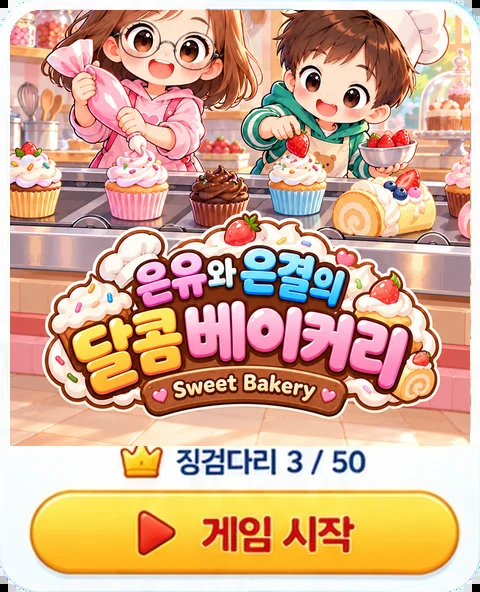
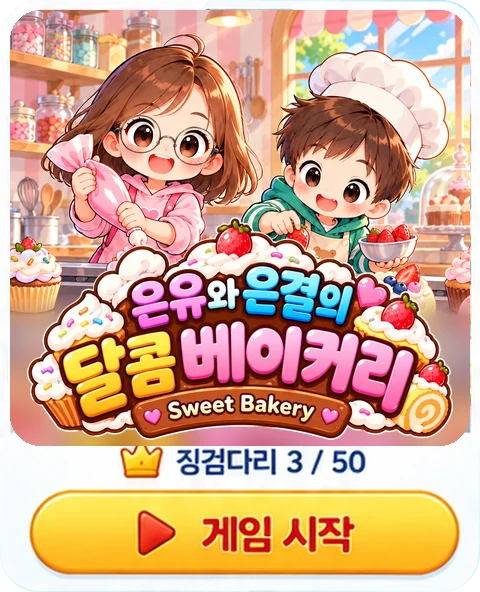
게임 선택 카드(메모리·두더지·베이커리): 은유·은결 머리가 잘리지 않게 다시 자르고 같은 크기 로고를 아래에 얹음 (tools/game_cards.py)

diff --git a/hub/hub.js b/hub/hub.js
@@ -191,7 +191,7 @@ function renderLobby() {
     card.className = 'lb-card' + (fav ? ' fav' : ''); card.setAttribute('role', 'button'); card.tabIndex = 0;
     // 카드 그림 한 장(제목·게임 시작 버튼 포함) 위에 최고 기록만 실제 값으로 덮어 씀
     const bp = BEST_POS[g.id] || [73.5, 81.5];
-    card.innerHTML = `<img class="lb-cardimg" src="${g.thumb}?v=202610252249" alt="">
+    card.innerHTML = `<img class="lb-cardimg" src="${g.thumb}?v=202610261000" alt="">
       <button class="lb-fav" aria-label="즐겨찾기">★</button>
       <div class="lb-best" style="top:${bp[0]}%;height:${bp[1] - bp[0]}%"><img src="hub/ui/crown.webp?v=202610252249" alt=""><span class="lb-bt"></span></div>`;
     card.querySelector('.lb-cardimg').alt = g.name;
@@ -373,7 +373,7 @@ function renderRecords() {
   const c = Hub.active();
   $('recTitle').textContent = `${c.name}의 기록`;
   $('recSummary').innerHTML = `<div class="rec-card total"><div class="v">지금 코인 <b>${c.coins}</b> · 지금까지 모은 코인 <b>${c.earned}</b> · 별 <b>${Hub.starsTotal(c)}</b></div></div>`
-    + GAME_CARDS.map((g) => `<div class="rec-card"><div class="thumb" style="background-image:url(${g.thumb}?v=202610252249)"></div>
+    + GAME_CARDS.map((g) => `<div class="rec-card"><div class="thumb" style="background-image:url(${g.thumb}?v=202610261000)"></div>
       <div><div class="t">${g.name}${Hub.isFav(g.id, c) ? ' <span class="star-on">★</span>' : ''}</div><div class="v">${g.rec(c, Hub.rec(g.id, c))}</div></div></div>`).join('');
   const list = $('recList'); list.innerHTML = '';
   if (!c.history.length) list.innerHTML = '<li><span>아직 기록이 없어요. 게임을 해봐요!</span></li>';

diff --git a/index.html b/index.html
@@ -179,6 +179,6 @@
 <script src="common/profile.js?v=202610252249"></script>
 <script src="common/charv2.js?v=202610252249"></script>
 <script src="common/ui.js?v=202610252249"></script>
-<script src="hub/hub.js?v=202610252249"></script>
+<script src="hub/hub.js?v=202610261000"></script>
 </body>
 </html>

diff --git a/tools/game_cards.py b/tools/game_cards.py
@@ -1,0 +1,52 @@
+"""게임 선택 카드 다시 만들기 (메모리·두더지·베이커리): GPT G01 원본 → hub/cards/<id>.webp
+사천성 카드 틀(테두리·BEST 줄·게임 시작 버튼)은 그대로 두고 그림 칸(x10~470, y10~446)에 G01을 끼움.
+로고 크기는 그대로(G01 폭을 칸 폭 460에 맞춤), 자르는 위치(top)만 정해서 은유·은결 머리가 잘리지 않게.
+G01에서 머리끝~로고 끝이 칸보다 길면(메모리·베이커리), 캐릭터가 다 보이게 위에서 자르고
+같은 디자인의 로고(G04, 배경 지운 <게임>/assets/ui/logo.webp)를 예전 카드와 같은 크기로 칸 아래쪽에 얹음.
+  python3 tools/game_cards.py
+"""
+import os
+from PIL import Image, ImageDraw, ImageFilter
+
+ROOT = os.path.dirname(os.path.dirname(os.path.abspath(__file__)))
+W, H = 460, 436  # 그림 칸
+# 게임: (G01 원본, G01에서 자를 위쪽 y, 얹을 로고 폭 px 또는 None) — 예전엔 위쪽을 215쯤 잘라 머리가 잘렸음
+CARDS = {
+    'memory': ('memorygame/image/1E7A6A2B-6B5F-409E-BE4B-54D47DD64E6B.PNG', 0, 380, 436),
+    'mole': ('molegame/GPT/G01.PNG', 15, 400, 433),
+    'bakery': ('bakerygame/GPT/G01.PNG', 20, 426, 430),
+}
+# 마지막 숫자: 얹는 로고의 아래 끝 (그림 칸 안 y, 436 = BEST 줄 바로 위) — G01 원래 로고가 비치지 않게 그 위를 덮음
+
+
+def rounded(im, r):
+    m = Image.new('L', im.size, 0)
+    ImageDraw.Draw(m).rounded_rectangle((0, 0, im.width - 1, im.height - 1), r, fill=255)
+    im = im.convert('RGBA'); im.putalpha(m); return im
+
+
+def build(gid, src, top, logo_w, logo_bottom):
+    g1 = Image.open(os.path.join(ROOT, src)).convert('RGB')
+    s = W / g1.width; h = round(H / s)
+    top = max(0, min(top, g1.height - h))
+    pic = g1.crop((0, top, g1.width, top + h)).resize((W, H), Image.LANCZOS).convert('RGBA')
+    if logo_w:
+        lg = Image.open(f'{ROOT}/{gid}/assets/ui/logo.webp').convert('RGBA')
+        lg = lg.crop(lg.getbbox()); lg = lg.resize((logo_w, round(lg.height * logo_w / lg.width)), Image.LANCZOS)
+        y0 = logo_bottom - lg.height
+        # 로고 아래쪽 뒤로 G01 원래 로고 글자가 비치지 않게, 그 부분을 크게 흐린 배경으로 덮고(부드럽게 이어지게) 로고를 얹음
+        cut = y0 + round(lg.height * 0.45)
+        blur = pic.filter(ImageFilter.GaussianBlur(14))
+        m = Image.new('L', pic.size, 0); d = ImageDraw.Draw(m)
+        for y in range(cut - 24, H):
+            d.line((0, y, W, y), fill=max(0, min(255, round(255 * (y - (cut - 24)) / 24))))
+        pic = Image.composite(blur, pic, m)
+        pic.alpha_composite(lg, ((W - logo_w) // 2, y0))
+    card = Image.open(f'{ROOT}/hub/cards/shisen.webp').convert('RGBA')
+    card.alpha_composite(rounded(pic, 30), (10, 10))
+    card.save(f'{ROOT}/hub/cards/{gid}.webp', 'WEBP', quality=88, method=6)
+    print(gid, 'top', top, '→', f'hub/cards/{gid}.webp')
+
+
+if __name__ == '__main__':
+    for gid, c in CARDS.items(): build(gid, *c)
